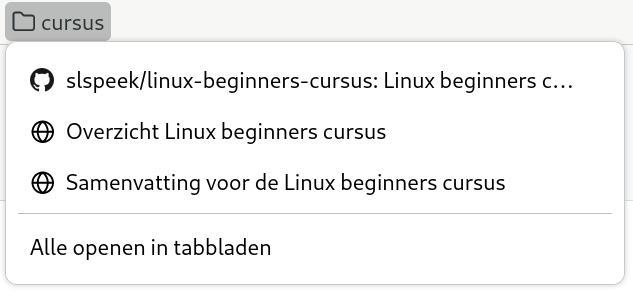
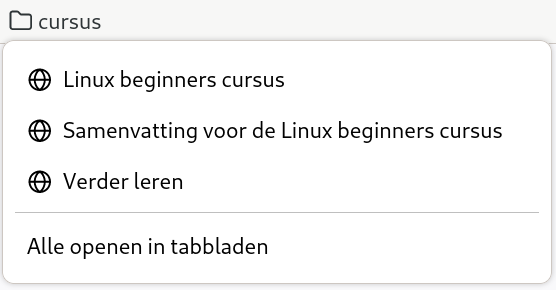
deploy: 2e00c0f114cbb0b93ff44c0813302ac2ee03a213

Changed region(s): [[0.0, 0.0, 1.0, 0.9621]]

diff --git a/oefeningen.html b/oefeningen.html
@@ -395,7 +395,7 @@
 <ol type="1">
 <li><p>Start Firefox met <code>SUPER+1</code>.</p>
 <ul>
-<li><p>Ga naar de URL: <code>slspeek.github.io/linux-beginners-cursus</code>.</p></li>
+<li><p>Ga naar de URL: <a href="https://slspeek.github.io/linux-beginners-cursus"><code>slspeek.github.io/linux-beginners-cursus</code></a>.</p></li>
 <li><p>Scroll naar het kopje “Lesmateriaal”</p></li>
 <li><p>Klik op de koppeling van de HTML versie (tweede kolom) van “Presentaties”</p></li>
 <li><p>Blader door enkele presentaties heen, nu weet u waar u het lesmateriaal online kunt vinden</p></li>
@@ -403,15 +403,15 @@
 </ul></li>
 <li><p>Start Firefox met <code>SUPER+1</code>.</p>
 <ul>
-<li><p>Ga naar <code>debian.org</code>.</p></li>
+<li><p>Ga naar <a href="http://debian.org"><code>debian.org</code></a>.</p></li>
 <li><p>Open een extra tabblad met <code>CTRL+T</code>, merk op dat u gelijk het webadres kunt intypen. Ga naar <code>tldp.org</code>.</p></li>
 <li><p>Ga terug naar het eerste tabblad door <code>CTRL+TAB</code> in te drukken.</p></li>
 <li><p>Sluit <code>debian.org</code>, met <code>CTRL+W</code>.</p></li>
-<li><p>Sluit de browser af door het laatste tabblad te sluiten</p></li>
+<li><p>Sluit de browser af door het laatste tabblad te sluiten (<code>CTRL+W</code>)</p></li>
 </ul></li>
 <li><p>Start Firefox met <code>SUPER+1</code>.</p>
 <ul>
-<li><p>Ga naar de URL: <code>slspeek.github.io/linux-beginners-cursus</code></p></li>
+<li><p>Ga naar de URL: <a href="https://slspeek.github.io/linux-beginners-cursus"><code>slspeek.github.io/linux-beginners-cursus</code></a></p></li>
 <li><p>Scroll naar het kopje “Lesmateriaal”</p></li>
 <li><p>Open de HTML versie (tweede kolom) van Samenvatting en Oefeningen op een apart tabblad (en blijf op de eerste pagina)</p></li>
 <li><p>Gebruik <code>CTRL+TAB</code> om de twee nieuwe pagina’s te bekijken</p></li>
@@ -426,23 +426,23 @@
 </ul></li>
 <li><p>Start Firefox met <code>SUPER+1</code>.</p>
 <ul>
-<li><p>Ga naar de URL: <code>slspeek.github.io/linux-beginners-cursus</code></p></li>
+<li><p>Ga naar de URL: <a href="https://slspeek.github.io/linux-beginners-cursus"><code>slspeek.github.io/linux-beginners-cursus</code></a></p></li>
 <li><p>Maak een bladwijzer met <code>CTRL+D</code></p></li>
 <li><p>Sluit de browser af met <code>CTRL+Q</code></p></li>
 </ul></li>
 <li><p>Start Firefox met <code>SUPER+1</code>.</p>
 <ul>
-<li><p>Ga met behulp van de bladwijzer naar de URL: <code>slspeek.github.io/linux-beginners-cursus</code></p></li>
-<li><p>Maak bladwijzerbalk zichtbaar met <code>CTRL+SHIFT+B</code> als deze verborgen is</p></li>
-<li><p>Scroll naar beneden naar de README naar het kopje “Lesmateriaal”</p></li>
-<li><p>Klik op de koppeling van de HTML versie van “Presentaties” (tweede kolom)</p></li>
+<li><p>Ga met behulp van de bladwijzer naar de URL: <a href="https://slspeek.github.io/linux-beginners-cursus"><code>slspeek.github.io/linux-beginners-cursus</code></a> (“Linux beginners cursus”)</p></li>
+<li><p>Scroll naar het kopje “Lesmateriaal”</p></li>
+<li><p>Klik op de koppeling van de HTML versie van “Verder leren” (tweede kolom)</p></li>
 <li><p>Maak een bladwijzer door op <img src="img/firefox-bladwijzer-ster-leeg.png" width="30" /> aan de rechterzijde te klikken</p></li>
 <li><p>Sluit de browser af met <code>CTRL+Q</code></p></li>
 </ul></li>
 <li><p>Start Firefox met <code>SUPER+1</code>.</p>
 <ul>
-<li><p>Ga met behulp van de bladwijzer naar de “Presentaties” (“Overzicht Linux beginners cursus”) van de cursus</p></li>
-<li><p>Klik op de HTML versie “Samenvatting” onder het kopje “Lesmateriaal”</p></li>
+<li><p>Ga met behulp van de bladwijzer naar de URL <a href="https://slspeek.github.io/linux-beginners-cursus"><code>slspeek.github.io/linux-beginners-cursus</code></a> (“Linux beginners cursus”)</p></li>
+<li><p>Klik op de HTML versie van “Samenvatting” onder het kopje “Lesmateriaal”</p></li>
+<li><p>Maak bladwijzerbalk zichtbaar met <code>CTRL+SHIFT+B</code> als deze verborgen is</p></li>
 <li><p>Maak een bladwijzer door <img src="img/firefox-slotje.png" width="30" /> naar de bladwijzerbalk te slepen</p></li>
 <li><p>Sluit de browser af met <code>CTRL+Q</code></p></li>
 </ul></li>
@@ -450,33 +450,36 @@
 <ul>
 <li><p>Als de bladwijzerbalk niet zichtbaar is maakt u hem zichtbaar met <code>SHIFT+CTRL+B</code></p></li>
 <li><p>Open het context menu (rechtsklikken) van de bladwijzerbalk en kies “Map toevoegen …” en maak een map “cursus” aan</p></li>
-<li><p>Sleep de drie bladwijzers over de cursus naar deze map</p></li>
+<li><p>Sleep de drie bladwijzers over de cursus naar deze map (“Linux beginners cursus”, “Verder leren” en “Samenvatting voor de Linux beginners cursus”)</p></li>
 <li><p>En orden ze zodanig dat het resultaat er zo uitziet: <img src="img/firefox-bladwijzer-map-cursus-3-items.png" height="100" /></p></li>
 <li><p>Sluit de browser af met <code>CTRL+Q</code></p></li>
 </ul></li>
 <li><p>Start Firefox met <code>SUPER+1</code>.</p>
 <ul>
-<li><p>Ga met behulp van de bladwijzer naar de “Presentaties” (“Overzicht Linux beginners cursus”) van de cursus</p></li>
+<li><p>Ga met behulp van de bladwijzer naar de URL <a href="https://slspeek.github.io/linux-beginners-cursus"><code>slspeek.github.io/linux-beginners-cursus</code></a> (“Linux beginners cursus”)</p></li>
 <li><p>Ga naar het kopje “Lesmateriaal”</p></li>
 <li><p>Klik met <code>CTRL</code> ingedrukt op de HTML versies van “Oefeningen” en “Begrippenlijst”</p></li>
+<li><p>Als de bladwijzerbalk niet zichtbaar is maakt u hem zichtbaar met <code>SHIFT+CTRL+B</code></p></li>
 <li><p>Breng met behulp van <code>CTRL+TAB</code> de tabbladen 1 voor 1 naar voren en sleep <img src="img/firefox-slotje.png" width="30" /> naar de map “cursus” op de bladwijzerbalk</p></li>
+<li><p>Sluit de browser af met <code>CTRL+Q</code></p></li>
 </ul></li>
 <li><p>Start Firefox met <code>SUPER+1</code></p>
 <ul>
-<li><p>Ga naar <code>kernel.org</code></p></li>
+<li><p>Ga naar <a href="https://kernel.org"><code>kernel.org</code></a></p></li>
 <li><p>Maak een bladwijzer met <code>CTRL+D</code></p></li>
-<li><p>Ga naar “Bladwijzers beheren” met <code>CTRL+SHIFT+O</code></p></li>
+<li><p>Ga naar “Bladwijzers beheren” met <code>CTRL+SHIFT+O</code>. Er opent een popup venster met de titel “Bibliotheek”.</p></li>
 <li><p>Selecteer in het linkerpaneel “Bladwijzerbalk”</p></li>
 <li><p>Verwijder de bladwijzer naar <code>kernel.org</code>, door rechts te klikken op de <code>kernel.org</code> bladwijzer en “Bladwijzer verwijderen” te kiezen</p></li>
+<li><p>Sluit het “Bibliotheek” venster met <code>CTRL+W</code></p></li>
 <li><p>Sluit de browser af met <code>CTRL+Q</code></p></li>
 </ul></li>
 <li><p>Noem drie manieren waarop je een bladwijzer in Firefox kunt maken (er zijn er vier).</p></li>
 <li><p>Noem drie manieren waarop je een bladwijzer in Firefox kunt verwijderen.</p></li>
 <li><p>Start Firefox met <code>SUPER+1</code></p>
 <ul>
-<li><p>Ga naar ‘Add-ons en thema’s’ met <code>CTRL+SHIFT+A</code> of via het hamburger menu <img src="img/firefox-hamburgermenu.png" /> rechtbovenin.</p></li>
+<li><p>Ga naar ‘Add-ons en thema’s’ met <code>CTRL+SHIFT+A</code> of via het hamburger menu <img src="img/firefox-hamburgermenu.png" height="20" /> rechtbovenin.</p></li>
 <li><p>Selecteer aan de linkerzijde van de pagina ‘Extensies’</p></li>
-<li><p>Type in het zoekvak <code>Adblocker Ultimate</code> en installeer deze extensie:</p>
+<li><p>Type in het zoekvak met label “Meer add-ons zoeken” <code>Adblocker Ultimate</code> en installeer deze extensie:</p>
 <ul>
 <li><p>Kies het bovenste zoekresultaat</p></li>
 <li><p>Klik op de blauwe knop met opschrift “Toevoegen aan Firefox”</p></li>
@@ -487,16 +490,16 @@
 </ul></li>
 <li><p>Start Firefox met <code>SUPER+1</code>.</p>
 <ul>
-<li><p>Ga naar de URL: <code>slspeek.github.io/linux-beginners-cursus/samenvatting.html</code>.</p></li>
-<li><p>Scroll omlaag naar “Internet browser: Firefox” en dan naar “Extensies installeren”, klik op de koppeling van “I don’t care about cookies”</p></li>
+<li><p>Ga naar de URL: <a href="https://slspeek.github.io/linux-beginners-cursus/samenvatting.html#internet-browser-firefox"><code>slspeek.github.io/linux-beginners-cursus/samenvatting.html#internet-browser-firefox</code></a>.</p></li>
+<li><p>Scroll omlaag naar “Extensies installeren”, klik op de koppeling van “I don’t care about cookies”</p></li>
 <li><p>Klik op de knop “Toevoegen aan Firefox”</p></li>
 <li><p>Ga na met <code>CTRL+SHIFT+A</code> (Add-ons) of de extensie is geïnstalleerd</p></li>
 <li><p>Sluit de browser af met <code>CTRL+Q</code></p></li>
 </ul></li>
 <li><p>Start Firefox met <code>SUPER+1</code></p>
 <ul>
-<li><p>Ga via het hamburgermenu rechtsboven naar ‘Hulp’ en dan naar ‘Hulp verkrijgen’</p></li>
-<li><p>Type <code>navigatiegeschiedenis</code></p></li>
+<li><p>Ga via het hamburgermenu rechtsboven <img src="img/firefox-hamburgermenu.png" height="20" /> naar ‘Hulp’ en dan naar ‘Hulp verkrijgen’</p></li>
+<li><p>Type <code>navigatiegeschiedenis</code> in het zoekvak midden op de pagina</p></li>
 <li><p>Wat betekent geschiedenis in Firefox?</p></li>
 <li><p>Sluit de browser af met <code>CTRL+Q</code></p></li>
 </ul></li>

diff --git a/firefox.html b/firefox.html
@@ -18,6 +18,9 @@
 <p>Koppeling openen op nieuw tabblad</p>
 </li>
 <li>
+<p>Bladwijzers</p>
+</li>
+<li>
 <p>Enkele extensies</p>
 </li>
 <li>
